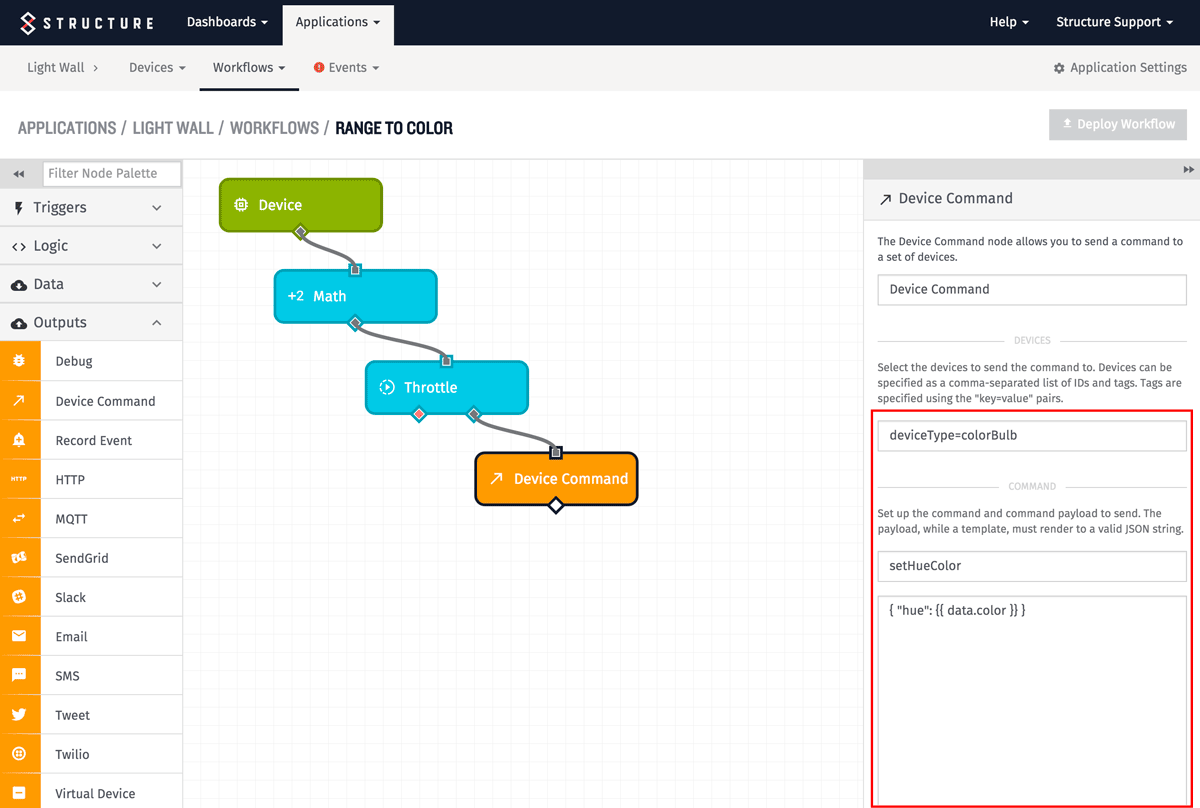
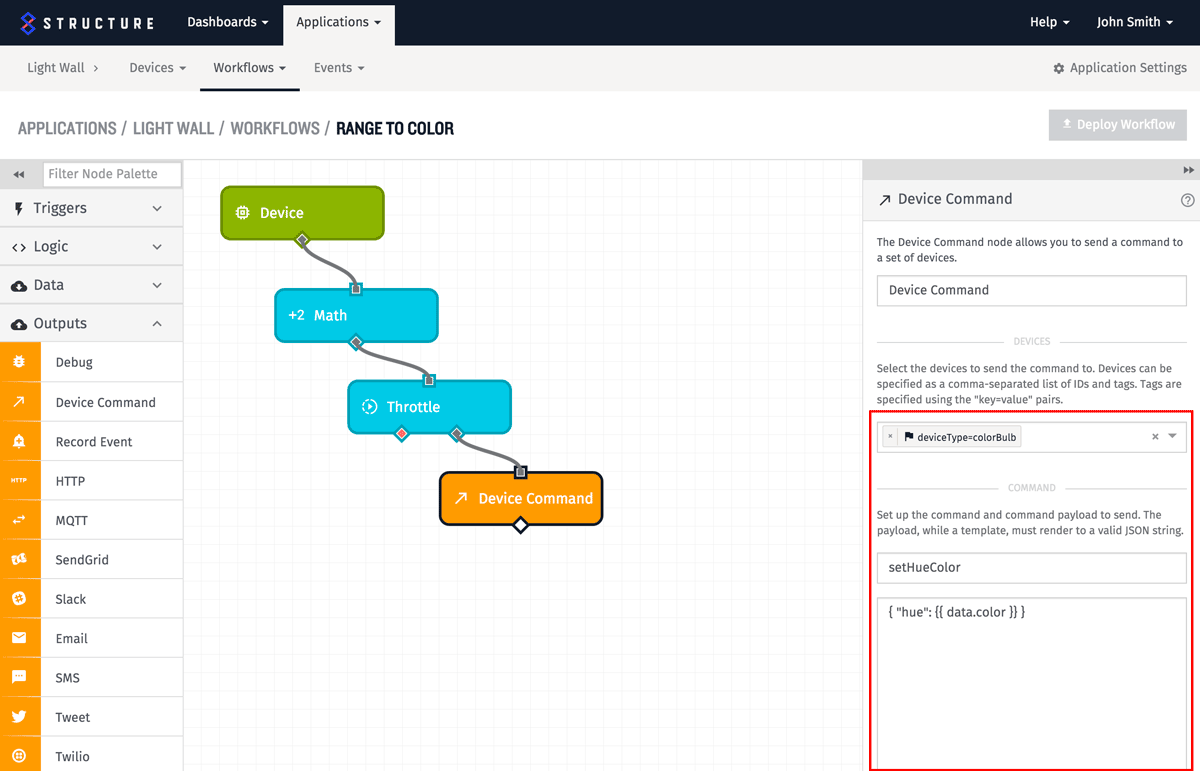
update device command docs with new device selector

diff --git a/docs/workflows/outputs/device-command.md b/docs/workflows/outputs/device-command.md
@@ -10,7 +10,7 @@ There are three parts to configuring a device command node - selecting the devic
 
 ![Device Command Node Configuration](/images/workflows/outputs/device-command-node-config.png "Device Command Node Configuration")
 
-Selecting the devices to send the command to uses the standard Structure [device query syntax](/devices/device-queries/) - a comma separated list of device IDs and device tags.  The command name field supports payload templates, so if the command needs to be dynamically determined, it is possible to alter the command based on the current payload.  The command payload is optional, and depending on the needs of the command being sent, may or may not be needed.  If the command payload is needed, it must evaluate to a valid JSON object.  The command payload field also supports templating - so complex JSON objects can be dynamically constructed out of the current workflow payload.
+The devices to send a command to can be selected individually or using tags, using the standard Structure device selection dropdown - see the [device query](/devices/device-queries/) documentation for more information.  The command name field supports payload templates, so if the command needs to be dynamically determined, it is possible to alter the command based on the current payload.  The command payload is optional, and depending on the needs of the command being sent, may or may not be needed.  If the command payload is needed, it must evaluate to a valid JSON object.  The command payload field also supports templating - so complex JSON objects can be dynamically constructed out of the current workflow payload.
 
 In the above example, the device command node is sending the command `setHueColor` to all devices whose `deviceType` tag has the value `colorBulb`.  And given the following payload:
 
